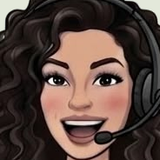
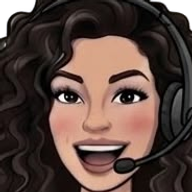
Mobile: mini Mar pasa al botón central del bottom nav
- Bottom nav de 5 posiciones: Inicio, Tienda, [mini Mar], Rutina, Carrito. El central es un círculo
  elevado (~14px sobre la barra), verde con borde arena y la carita de mini Mar recortada, que abre
  WhatsApp ("¡Hola Mar! Tengo una consulta.")
- La primera vez de la sesión asoma 3 s el globito "¿Te ayudo a elegir?"
- En mobile ya no hay widget flotante; en desktop mini Mar queda igual (sin la lógica de barras
  inferiores de mobile)
- mini-mar-cara con transparencia (sobre el verde queda recortada)

diff --git a/src/components/layout/BottomNav.jsx b/src/components/layout/BottomNav.jsx
@@ -1,56 +1,129 @@
+import { useEffect, useState } from 'react';
 import { NavLink, useLocation } from 'react-router';
-import { m } from 'motion/react';
+import { AnimatePresence, m } from 'motion/react';
 import Icon from '../ui/Icon.jsx';
 import CartBadge from './CartBadge.jsx';
 import { useCart } from '../../context/CartContext.jsx';
+import { whatsappCon } from '../../config/negocio.js';
+import { imgFija } from '../../lib/imagenes.js';
+import { HAY_INTRO } from '../marca/IntroMarca.jsx';
 
 const ITEMS = [
   { to: '/', label: 'Inicio', icon: 'home', end: true },
   { to: '/tienda', label: 'Tienda', icon: 'tienda' },
+  null, // botón central: mini Mar → WhatsApp
   { to: '/rutina', label: 'Rutina', icon: 'rutina' },
   { to: '/carrito', label: 'Carrito', icon: 'carrito', carrito: true },
 ];
 
-/** Navegación inferior tipo app (solo mobile). */
+const CLAVE_GLOBITO = 'dh-globito';
+const LINK_MAR = whatsappCon('¡Hola Mar! Tengo una consulta.');
+
+/** ¿Primera vez en la sesión? (con try/catch: sin sessionStorage, no se muestra) */
+function primeraVez() {
+  try {
+    if (sessionStorage.getItem(CLAVE_GLOBITO)) return false;
+    sessionStorage.setItem(CLAVE_GLOBITO, '1');
+    return true;
+  } catch {
+    return false;
+  }
+}
+
+/**
+ * Botón central del bottom nav: círculo elevado (sobresale ~14px arriba de la barra), verde con borde
+ * arena y la carita de mini Mar recortada; abre WhatsApp. La primera vez de la sesión asoma 3 s el
+ * globito "¿Te ayudo a elegir?". En mobile reemplaza al widget flotante de mini Mar (que queda en desktop).
+ */
+function BotonMar() {
+  const [globito, setGlobito] = useState(false);
+  useEffect(() => {
+    if (!primeraVez()) return;
+    const mostrar = setTimeout(() => setGlobito(true), HAY_INTRO ? 2200 : 1200);
+    const ocultar = setTimeout(() => setGlobito(false), (HAY_INTRO ? 2200 : 1200) + 3000);
+    return () => {
+      clearTimeout(mostrar);
+      clearTimeout(ocultar);
+    };
+  }, []);
+  return (
+    <li className="relative flex-1 self-stretch">
+      <AnimatePresence>
+        {globito && (
+          <m.span
+            aria-hidden="true"
+            initial={{ opacity: 0, y: 8, scale: 0.9 }}
+            animate={{ opacity: 1, y: 0, scale: 1 }}
+            exit={{ opacity: 0, y: 6, scale: 0.95 }}
+            transition={{ duration: 0.35, ease: [0.22, 1, 0.36, 1] }}
+            className="absolute bottom-[calc(100%+1.6rem)] left-1/2 -translate-x-1/2 rounded-2xl bg-crema-card px-3.5 py-2 text-[13px] font-bold whitespace-nowrap text-tinta shadow-flotante ring-1 ring-linea after:absolute after:top-full after:left-1/2 after:-translate-x-1/2 after:border-[7px] after:border-transparent after:border-t-crema-card"
+          >
+            ¿Te ayudo a elegir?
+          </m.span>
+        )}
+      </AnimatePresence>
+      <a
+        href={LINK_MAR}
+        target="_blank"
+        rel="noopener noreferrer"
+        aria-label="¿Te ayudo a elegir? Escribile a Mar por WhatsApp"
+        className="absolute -top-5 left-1/2 flex size-[3.75rem] -translate-x-1/2 items-center justify-center overflow-hidden rounded-full border-4 border-arena shadow-flotante transition active:scale-90"
+        style={{ backgroundImage: 'linear-gradient(135deg, #3e6450 0%, #2f5240 100%)' }}
+      >
+        <img {...imgFija('/img/marca/mini-mar-cara.webp', 52)} alt="" width="192" height="192" className="mt-3 size-[3.05rem] object-cover" />
+      </a>
+      {/* Marca de WhatsApp en la esquina del círculo (fuera del overflow-hidden) */}
+      <span aria-hidden="true" className="pointer-events-none absolute top-[1.6rem] left-[calc(50%+0.95rem)] flex size-5 items-center justify-center rounded-full bg-crema-card text-verde shadow-suave">
+        <Icon name="whatsapp" size={13} />
+      </span>
+    </li>
+  );
+}
+
+/** Navegación inferior tipo app (solo mobile): Inicio, Tienda, [mini Mar → WhatsApp], Rutina, Carrito. */
 export default function BottomNav() {
   const { cantidadTotal } = useCart();
   const { pathname } = useLocation();
   // En el detalle de producto la barra "Agregar al carrito" ocupa su lugar
   if (pathname.startsWith('/producto/')) return null;
   return (
-    <nav aria-label="Navegación inferior" data-barra-inferior className="fixed inset-x-0 bottom-0 z-40 px-3 pb-[max(0.75rem,env(safe-area-inset-bottom))] transition-transform duration-500 ease-out in-data-[overlay=abierto]:pointer-events-none in-data-[overlay=abierto]:translate-y-[calc(100%+1.5rem)] md:hidden">
+    <nav aria-label="Navegación inferior" className="fixed inset-x-0 bottom-0 z-40 px-3 pb-[max(0.75rem,env(safe-area-inset-bottom))] transition-transform duration-500 ease-out in-data-[overlay=abierto]:pointer-events-none in-data-[overlay=abierto]:translate-y-[calc(100%+2.5rem)] md:hidden">
       <ul className="glass-arena mx-auto flex max-w-md items-center justify-around rounded-full px-2 py-1.5 shadow-flotante">
-        {ITEMS.map((it) => (
-          <li key={it.to} className="flex-1">
-            <NavLink
-              to={it.to}
-              end={it.end}
-              aria-label={it.carrito ? `Carrito (${cantidadTotal} productos)` : undefined}
-              className={({ isActive }) =>
-                `relative flex flex-col items-center gap-0.5 rounded-full py-1.5 text-[11px] font-semibold transition active:scale-90 ${
-                  isActive ? 'text-verde' : 'text-tinta'
-                }`
-              }
-            >
-              {({ isActive }) => (
-                <>
-                  {isActive && (
-                    <m.span
-                      layoutId="bottomnav-activo"
-                      className="absolute inset-0 rounded-full bg-salvia"
-                      transition={{ type: 'spring', stiffness: 420, damping: 34 }}
-                    />
-                  )}
-                  <span className="relative" {...(it.carrito ? { 'data-cart-target': '' } : {})}>
-                    <Icon name={it.icon} size={22} strokeWidth={isActive ? 2.2 : 1.8} />
-                    {it.carrito && <CartBadge />}
-                  </span>
-                  <span className="relative">{it.label}</span>
-                </>
-              )}
-            </NavLink>
-          </li>
-        ))}
+        {ITEMS.map((it) =>
+          !it ? (
+            <BotonMar key="mar" />
+          ) : (
+            <li key={it.to} className="flex-1">
+              <NavLink
+                to={it.to}
+                end={it.end}
+                aria-label={it.carrito ? `Carrito (${cantidadTotal} productos)` : undefined}
+                className={({ isActive }) =>
+                  `relative flex flex-col items-center gap-0.5 rounded-full py-1.5 text-[11px] font-semibold transition active:scale-90 ${
+                    isActive ? 'text-verde' : 'text-tinta'
+                  }`
+                }
+              >
+                {({ isActive }) => (
+                  <>
+                    {isActive && (
+                      <m.span
+                        layoutId="bottomnav-activo"
+                        className="absolute inset-0 rounded-full bg-salvia"
+                        transition={{ type: 'spring', stiffness: 420, damping: 34 }}
+                      />
+                    )}
+                    <span className="relative" {...(it.carrito ? { 'data-cart-target': '' } : {})}>
+                      <Icon name={it.icon} size={22} strokeWidth={isActive ? 2.2 : 1.8} />
+                      {it.carrito && <CartBadge />}
+                    </span>
+                    <span className="relative">{it.label}</span>
+                  </>
+                )}
+              </NavLink>
+            </li>
+          ),
+        )}
       </ul>
     </nav>
   );

diff --git a/src/components/marca/MiniMar.jsx b/src/components/marca/MiniMar.jsx
@@ -17,10 +17,9 @@ const EASE = [0.22, 1, 0.36, 1];
 // Punta del dedo (señala arriba a la izquierda), en fracción del ancho / alto de la imagen.
 const ASPECTO = 451 / 661;
 const DEDO = { x: 0.062, y: 0.342 };
-const MEDIDAS = {
-  mobile: { alto: 180, boton: 48, margen: 16, solape: 22 }, // solape: se mete detrás de la barra inferior
-  desktop: { alto: 300, boton: 56, margen: 24, solape: 0 },
-};
+const ALTO = 300;
+const BOTON = 56;
+const MARGEN = 24;
 
 /**
  * La ilustración dibujada en un <canvas> y no en un <img>: aparece después de la carga y en páginas con
@@ -60,45 +59,8 @@ function FiguraCanvas({ ancho, alto }) {
 }
 
 /**
- * Alto (px) de lo que hay fijo abajo en mobile: bottom nav, barra de /producto o la de /rutina
- * (marcadas con data-barra-inferior). Mini Mar va encima: no tapa "Agregar" ni el carrito.
- */
-function useBaseInferior(activo) {
-  const [base, setBase] = useState(0);
-  const { pathname } = useLocation();
-  useEffect(() => {
-    if (!activo) {
-      setBase(0);
-      return;
-    }
-    const medir = () => {
-      let top = window.innerHeight;
-      document.querySelectorAll('[data-barra-inferior]').forEach((el) => {
-        const r = el.getBoundingClientRect();
-        if (r.height) top = Math.min(top, r.top);
-      });
-      setBase(Math.max(0, Math.round(window.innerHeight - top)));
-    };
-    const ro = new ResizeObserver(medir);
-    // las barras de cada página aparecen cuando llega su chunk: medir otra vez un rato después
-    const ids = [0, 400, 1200].map((t) =>
-      setTimeout(() => {
-        document.querySelectorAll('[data-barra-inferior]').forEach((el) => ro.observe(el));
-        medir();
-      }, t),
-    );
-    window.addEventListener('resize', medir);
-    return () => {
-      ids.forEach(clearTimeout);
-      ro.disconnect();
-      window.removeEventListener('resize', medir);
-    };
-  }, [activo, pathname]);
-  return base;
-}
-
-/**
- * Mini Mar señalando el botón de WhatsApp (abajo a la derecha, en todas las páginas).
+ * Mini Mar señalando el botón de WhatsApp (abajo a la derecha, en todas las páginas) — SOLO DESKTOP.
+ * En mobile no hay widget flotante: el WhatsApp es el botón central del bottom nav (BottomNav.jsx).
  * - NO entra al cargar: en el home, cuando el hero salió de pantalla (scroll > 70% de su alto); en páginas
  *   sin hero, a los 300px de scroll o a los 8 s. Entra desde abajo con un rebote; a su izquierda, donde
  *   apunta el dedo, el botón de WhatsApp y el globito "¿Te ayudo a elegir?".
@@ -112,8 +74,13 @@ function useBaseInferior(activo) {
  */
 export default function MiniMar() {
   const desktop = useMediaQuery('(min-width: 768px)');
-  const { alto, boton, margen, solape } = MEDIDAS[desktop ? 'desktop' : 'mobile'];
-  const base = useBaseInferior(!desktop);
+  return desktop ? <MiniMarDesktop /> : null;
+}
+
+function MiniMarDesktop() {
+  const alto = ALTO;
+  const boton = BOTON;
+  const margen = MARGEN;
   const { pathname } = useLocation();
   const [montada, setMontada] = useState(false);
   const [abierta, setAbierta] = useState(true);
@@ -125,9 +92,8 @@ export default function MiniMar() {
   useEffect(() => {
     const precargar = () => {
       const dpr = Math.min(window.devicePixelRatio || 1, 3);
-      const grande = window.matchMedia('(min-width: 768px)').matches ? MEDIDAS.desktop : MEDIDAS.mobile;
       const img = new Image();
-      img.src = urlImagen('/img/marca/mini-mar.webp', Math.round(grande.alto * ASPECTO * dpr));
+      img.src = urlImagen('/img/marca/mini-mar.webp', Math.round(ALTO * ASPECTO * dpr));
       imagen.current = img.decode().catch(() => {});
     };
     if (document.readyState === 'complete') precargar();
@@ -182,7 +148,7 @@ export default function MiniMar() {
       setTapando(false);
       return;
     }
-    const abajo = (desktop ? 0 : base) + margen;
+    const abajo = margen;
     let raf = 0;
     const chequear = () => {
       raf = 0;
@@ -207,17 +173,17 @@ export default function MiniMar() {
       window.removeEventListener('scroll', programar);
       window.removeEventListener('resize', programar);
     };
-  }, [montada, abierta, desktop, base, margen, boton, pathname]);
+  }, [montada, abierta, margen, boton, pathname]);
 
   if (!montada) return null;
 
   // Geometría (px desde la esquina inferior derecha de la pantalla)
   const ancho = Math.round(alto * ASPECTO);
-  const pie = desktop ? 0 : Math.max(0, base - solape); // base de la figura (se mete detrás de la barra)
+  const pie = 0; // pegada al borde de abajo
   const dedo = { der: ancho * (1 - DEDO.x), abajo: pie + alto * (1 - DEDO.y) };
   // Botón abierto: a la izquierda y un poco arriba de la punta del dedo. Compacto: en la esquina.
   const abiertoPos = { der: dedo.der + 6, abajo: dedo.abajo - 4 };
-  const compactoPos = { der: margen, abajo: (desktop ? 0 : base) + margen };
+  const compactoPos = { der: margen, abajo: margen };
   const dx = abiertoPos.der - compactoPos.der; // cuánto se corre a la derecha al achicarse
   const dy = abiertoPos.abajo - compactoPos.abajo; // y hacia abajo
 
@@ -275,7 +241,7 @@ export default function MiniMar() {
           style={{ backgroundImage: 'linear-gradient(135deg, #3e6450 0%, #2f5240 100%)' }}
         >
           <span className="pulso absolute inset-0 rounded-full" aria-hidden="true" />
-          <Icon name="whatsapp" size={desktop ? 28 : 24} />
+          <Icon name="whatsapp" size={28} />
         </a>
 
         {/* Globito, a la izquierda del botón */}

diff --git a/src/pages/Rutina.jsx b/src/pages/Rutina.jsx
@@ -252,7 +252,7 @@ export default function Rutina() {
       </div>
 
       {/* Resumen (mobile): barra arriba del bottom nav */}
-      <div data-barra-inferior className="fixed inset-x-0 bottom-[calc(4.6rem+max(0.75rem,env(safe-area-inset-bottom)))] z-30 px-3 md:hidden">
+      <div className="fixed inset-x-0 bottom-[calc(4.6rem+max(0.75rem,env(safe-area-inset-bottom)))] z-30 px-3 md:hidden">
         <MensajeLista visible={rutinaLista} total={total} className="mb-2" />
         <div className="glass-arena flex items-center gap-3 rounded-4xl p-2 pl-4 shadow-flotante ring-1 ring-verde/10">
           <div className="flex gap-1">

diff --git a/src/pages/Producto.jsx b/src/pages/Producto.jsx
@@ -204,7 +204,7 @@ function Detalle({ producto }) {
       <CompletaTuRutina producto={producto} />
 
       {/* Barra fija mobile */}
-      <div data-barra-inferior className="fixed inset-x-0 bottom-0 z-40 px-3 pb-[max(0.75rem,env(safe-area-inset-bottom))] md:hidden">
+      <div className="fixed inset-x-0 bottom-0 z-40 px-3 pb-[max(0.75rem,env(safe-area-inset-bottom))] md:hidden">
         <div className="glass-arena flex items-center gap-2 rounded-full p-2 shadow-flotante ring-1 ring-verde/10">
           <button
             type="button"

diff --git a/CLAUDE.md b/CLAUDE.md
@@ -85,7 +85,8 @@ React + Vite + Tailwind CSS v4 + React Router + motion (framer-motion), JavaScri
   - Reseñas: comillas grandes doradas al 20% detrás del texto; las 5 estrellas se encienden una por una al entrar (`.estrella-resena`).
   - Servicios: el reloj del chip de duración gira una vez al entrar.
   - Barra de anuncio: destello dorado claro entre vuelta y vuelta del texto. Mini Mar: destello en el globito.
-- **Mini Mar** (`src/components/marca/MiniMar.jsx`, en todas las páginas): ilustración de Mar señalando el botón de WhatsApp ("¡Hola Mar! Tengo una consulta."), abajo a la derecha, pegada a los bordes (la imagen está cortada a la derecha y abajo). NO entra al cargar: en el home cuando el hero (`data-hero`) salió de pantalla (scroll > 70% de su alto); en páginas sin hero a los 300px de scroll o a los 8 s, lo que pase primero. Entra desde abajo con rebote, globito "¿Te ayudo a elegir?"; a los 6 s se achica al botón con su carita; hover o tocar la carita la vuelven a mostrar. Compacta, se esconde mientras se superpone con algo marcado `data-evitar-mini-mar` (mini-card de Skala del hero). Oculta con `data-overlay="abierto"` (carrito, quick view, filtros). En mobile se apoya arriba de la barra fija más alta (`data-barra-inferior`: bottom nav, barra de /producto, barra de /rutina) y queda por debajo de ellas (z-29). Va dibujada en un `<canvas>`: como `<img>` pasaba a ser el elemento LCP de /carrito. Recorte: `assets/marca/mini-mar.png` (isnet-general-use de rembg, corrido con onnxruntime en Node, + limpieza del halo beige); `mini-mar-cara.png` para el modo compacto; original en `assets/marca/originales/` (ignorada).
+- **Botón central del bottom nav (mobile)**: Inicio, Tienda, [mini Mar], Rutina, Carrito. Círculo elevado (~14px sobre la barra), verde con borde arena y la carita de mini Mar recortada (`mini-mar-cara.png` con transparencia) → WhatsApp "¡Hola Mar! Tengo una consulta.". La primera vez de la sesión (sessionStorage `dh-globito`) asoma 3 s "¿Te ayudo a elegir?". En /producto no hay bottom nav (está la barra de "Agregar").
+- **Mini Mar** (`src/components/marca/MiniMar.jsx`, SOLO DESKTOP ≥ 768px; en mobile la reemplaza el botón central): ilustración de Mar señalando el botón de WhatsApp ("¡Hola Mar! Tengo una consulta."), abajo a la derecha, pegada a los bordes (la imagen está cortada a la derecha y abajo). NO entra al cargar: en el home cuando el hero (`data-hero`) salió de pantalla (scroll > 70% de su alto); en páginas sin hero a los 300px de scroll o a los 8 s, lo que pase primero. Entra desde abajo con rebote, globito "¿Te ayudo a elegir?"; a los 6 s se achica al botón con su carita; hover o tocar la carita la vuelven a mostrar. Compacta, se esconde mientras se superpone con algo marcado `data-evitar-mini-mar` (mini-card de Skala del hero). Oculta con `data-overlay="abierto"` (carrito, quick view, filtros). Va dibujada en un `<canvas>`: como `<img>` pasaba a ser el elemento LCP de /carrito. Recorte: `assets/marca/mini-mar.png` (isnet-general-use de rembg, corrido con onnxruntime en Node, + limpieza del halo beige); `mini-mar-cara.png` (con transparencia) para el modo compacto y el botón central; original en `assets/marca/originales/` (ignorada).
 - `main` tiene `min-h-svh`: mientras carga el chunk de una página el footer queda abajo del pliegue (si no, saltaba: CLS).
 ## Decisiones pendientes (preguntar antes de asumir)
 1. **Cierre del carrito:** ¿mensaje de WhatsApp a Mar con el pedido y el total, u otra cosa? (en Fase 1 queda "Próximamente").
